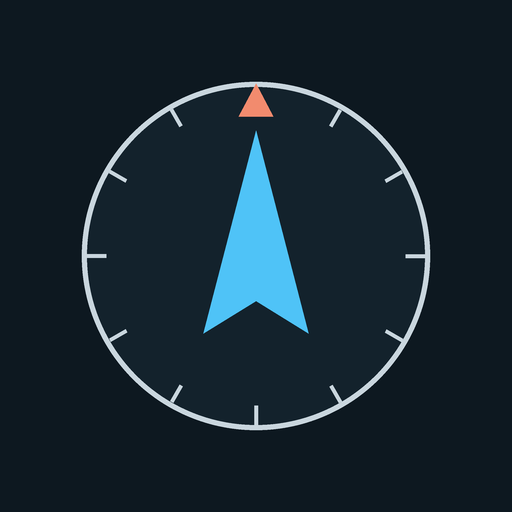
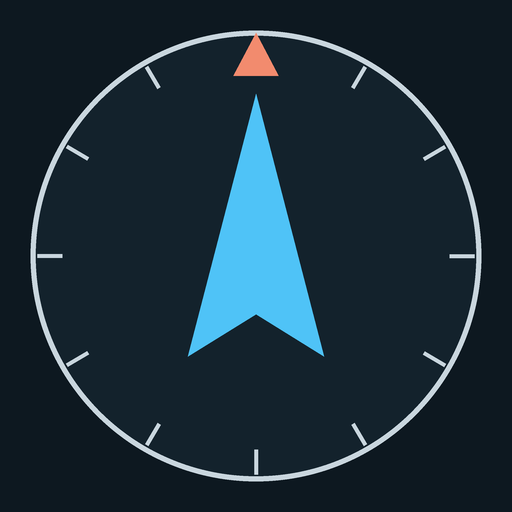
feat: установка как приложение — манифест, iOS-мета-теги, заставки, баннер установки
- манифест: имя «Компас», lang ru, id, orientation, отдельная maskable-иконка
- iOS: apple-mobile-web-app-capable, заголовок, строка статуса black-translucent,
  apple-touch-icon 180×180, заставки запуска для iPhone и iPad (вне офлайн-кэша)
- баннер установки: Android — кнопка «Установить» (beforeinstallprompt),
  iOS — подсказка «Поделиться → На экран „Домой“»; скрыт в установленном режиме
- scripts/generate-pwa-assets.py генерирует иконки и заставки

Claude-Session: https://claude.ai/code/session_01H9AEjJP9HTkZ9iTGTb5Xyv

diff --git a/index.html b/index.html
@@ -3,7 +3,49 @@
   <head>
     <meta charset="UTF-8" />
     <link rel="icon" type="image/svg+xml" href="/favicon.svg" />
-    <link rel="apple-touch-icon" href="/icon-192.png" />
+    <link rel="apple-touch-icon" href="/apple-touch-icon.png" />
+    <!-- Установка на главный экран: окно без интерфейса браузера -->
+    <meta name="mobile-web-app-capable" content="yes" />
+    <meta name="apple-mobile-web-app-capable" content="yes" />
+    <meta name="apple-mobile-web-app-title" content="Компас" />
+    <meta name="application-name" content="Компас" />
+    <!-- Контент заходит под строку статуса iOS; отступы под вырез — через safe-area в index.css -->
+    <meta name="apple-mobile-web-app-status-bar-style" content="black-translucent" />
+    <!-- Заставки iOS при запуске с главного экрана (генерирует scripts/generate-pwa-assets.py) -->
+    <link rel="apple-touch-startup-image" href="/splash/splash-750x1334.png" media="(device-width: 375px) and (device-height: 667px) and (-webkit-device-pixel-ratio: 2) and (orientation: portrait)" />
+    <link rel="apple-touch-startup-image" href="/splash/splash-1334x750.png" media="(device-width: 375px) and (device-height: 667px) and (-webkit-device-pixel-ratio: 2) and (orientation: landscape)" />
+    <link rel="apple-touch-startup-image" href="/splash/splash-828x1792.png" media="(device-width: 414px) and (device-height: 896px) and (-webkit-device-pixel-ratio: 2) and (orientation: portrait)" />
+    <link rel="apple-touch-startup-image" href="/splash/splash-1792x828.png" media="(device-width: 414px) and (device-height: 896px) and (-webkit-device-pixel-ratio: 2) and (orientation: landscape)" />
+    <link rel="apple-touch-startup-image" href="/splash/splash-1125x2436.png" media="(device-width: 375px) and (device-height: 812px) and (-webkit-device-pixel-ratio: 3) and (orientation: portrait)" />
+    <link rel="apple-touch-startup-image" href="/splash/splash-2436x1125.png" media="(device-width: 375px) and (device-height: 812px) and (-webkit-device-pixel-ratio: 3) and (orientation: landscape)" />
+    <link rel="apple-touch-startup-image" href="/splash/splash-1242x2688.png" media="(device-width: 414px) and (device-height: 896px) and (-webkit-device-pixel-ratio: 3) and (orientation: portrait)" />
+    <link rel="apple-touch-startup-image" href="/splash/splash-2688x1242.png" media="(device-width: 414px) and (device-height: 896px) and (-webkit-device-pixel-ratio: 3) and (orientation: landscape)" />
+    <link rel="apple-touch-startup-image" href="/splash/splash-1170x2532.png" media="(device-width: 390px) and (device-height: 844px) and (-webkit-device-pixel-ratio: 3) and (orientation: portrait)" />
+    <link rel="apple-touch-startup-image" href="/splash/splash-2532x1170.png" media="(device-width: 390px) and (device-height: 844px) and (-webkit-device-pixel-ratio: 3) and (orientation: landscape)" />
+    <link rel="apple-touch-startup-image" href="/splash/splash-1284x2778.png" media="(device-width: 428px) and (device-height: 926px) and (-webkit-device-pixel-ratio: 3) and (orientation: portrait)" />
+    <link rel="apple-touch-startup-image" href="/splash/splash-2778x1284.png" media="(device-width: 428px) and (device-height: 926px) and (-webkit-device-pixel-ratio: 3) and (orientation: landscape)" />
+    <link rel="apple-touch-startup-image" href="/splash/splash-1179x2556.png" media="(device-width: 393px) and (device-height: 852px) and (-webkit-device-pixel-ratio: 3) and (orientation: portrait)" />
+    <link rel="apple-touch-startup-image" href="/splash/splash-2556x1179.png" media="(device-width: 393px) and (device-height: 852px) and (-webkit-device-pixel-ratio: 3) and (orientation: landscape)" />
+    <link rel="apple-touch-startup-image" href="/splash/splash-1290x2796.png" media="(device-width: 430px) and (device-height: 932px) and (-webkit-device-pixel-ratio: 3) and (orientation: portrait)" />
+    <link rel="apple-touch-startup-image" href="/splash/splash-2796x1290.png" media="(device-width: 430px) and (device-height: 932px) and (-webkit-device-pixel-ratio: 3) and (orientation: landscape)" />
+    <link rel="apple-touch-startup-image" href="/splash/splash-1206x2622.png" media="(device-width: 402px) and (device-height: 874px) and (-webkit-device-pixel-ratio: 3) and (orientation: portrait)" />
+    <link rel="apple-touch-startup-image" href="/splash/splash-2622x1206.png" media="(device-width: 402px) and (device-height: 874px) and (-webkit-device-pixel-ratio: 3) and (orientation: landscape)" />
+    <link rel="apple-touch-startup-image" href="/splash/splash-1320x2868.png" media="(device-width: 440px) and (device-height: 956px) and (-webkit-device-pixel-ratio: 3) and (orientation: portrait)" />
+    <link rel="apple-touch-startup-image" href="/splash/splash-2868x1320.png" media="(device-width: 440px) and (device-height: 956px) and (-webkit-device-pixel-ratio: 3) and (orientation: landscape)" />
+    <link rel="apple-touch-startup-image" href="/splash/splash-1488x2266.png" media="(device-width: 744px) and (device-height: 1133px) and (-webkit-device-pixel-ratio: 2) and (orientation: portrait)" />
+    <link rel="apple-touch-startup-image" href="/splash/splash-2266x1488.png" media="(device-width: 744px) and (device-height: 1133px) and (-webkit-device-pixel-ratio: 2) and (orientation: landscape)" />
+    <link rel="apple-touch-startup-image" href="/splash/splash-1620x2160.png" media="(device-width: 810px) and (device-height: 1080px) and (-webkit-device-pixel-ratio: 2) and (orientation: portrait)" />
+    <link rel="apple-touch-startup-image" href="/splash/splash-2160x1620.png" media="(device-width: 810px) and (device-height: 1080px) and (-webkit-device-pixel-ratio: 2) and (orientation: landscape)" />
+    <link rel="apple-touch-startup-image" href="/splash/splash-1640x2360.png" media="(device-width: 820px) and (device-height: 1180px) and (-webkit-device-pixel-ratio: 2) and (orientation: portrait)" />
+    <link rel="apple-touch-startup-image" href="/splash/splash-2360x1640.png" media="(device-width: 820px) and (device-height: 1180px) and (-webkit-device-pixel-ratio: 2) and (orientation: landscape)" />
+    <link rel="apple-touch-startup-image" href="/splash/splash-1668x2388.png" media="(device-width: 834px) and (device-height: 1194px) and (-webkit-device-pixel-ratio: 2) and (orientation: portrait)" />
+    <link rel="apple-touch-startup-image" href="/splash/splash-2388x1668.png" media="(device-width: 834px) and (device-height: 1194px) and (-webkit-device-pixel-ratio: 2) and (orientation: landscape)" />
+    <link rel="apple-touch-startup-image" href="/splash/splash-1668x2420.png" media="(device-width: 834px) and (device-height: 1210px) and (-webkit-device-pixel-ratio: 2) and (orientation: portrait)" />
+    <link rel="apple-touch-startup-image" href="/splash/splash-2420x1668.png" media="(device-width: 834px) and (device-height: 1210px) and (-webkit-device-pixel-ratio: 2) and (orientation: landscape)" />
+    <link rel="apple-touch-startup-image" href="/splash/splash-2048x2732.png" media="(device-width: 1024px) and (device-height: 1366px) and (-webkit-device-pixel-ratio: 2) and (orientation: portrait)" />
+    <link rel="apple-touch-startup-image" href="/splash/splash-2732x2048.png" media="(device-width: 1024px) and (device-height: 1366px) and (-webkit-device-pixel-ratio: 2) and (orientation: landscape)" />
+    <link rel="apple-touch-startup-image" href="/splash/splash-2064x2752.png" media="(device-width: 1032px) and (device-height: 1376px) and (-webkit-device-pixel-ratio: 2) and (orientation: portrait)" />
+    <link rel="apple-touch-startup-image" href="/splash/splash-2752x2064.png" media="(device-width: 1032px) and (device-height: 1376px) and (-webkit-device-pixel-ratio: 2) and (orientation: landscape)" />
     <meta name="viewport" content="width=device-width, initial-scale=1.0, viewport-fit=cover" />
     <meta name="theme-color" content="#0d1820" />
     <meta name="description" content="Оффлайн GPS-навигатор: стрелка указывает на выбранную точку" />

diff --git a/src/hooks/useInstallPrompt.js b/src/hooks/useInstallPrompt.js
@@ -1,0 +1,84 @@
+import { useState, useEffect } from 'react';
+
+const DISMISS_KEY = 'compassInstallHintDismissed';
+
+// Приложение уже открыто с главного экрана (отдельным окном, без интерфейса браузера)
+const isStandaloneNow = () =>
+  (typeof window.matchMedia === 'function' && window.matchMedia('(display-mode: standalone)').matches) ||
+  window.navigator.standalone === true;
+
+// iPhone, iPod и iPad; iPadOS в режиме «как на компьютере» представляется Mac с сенсорным экраном
+const detectIOS = () =>
+  /iphone|ipad|ipod/i.test(navigator.userAgent) ||
+  (navigator.platform === 'MacIntel' && navigator.maxTouchPoints > 1);
+
+const readDismissed = () => {
+  try {
+    return localStorage.getItem(DISMISS_KEY) === '1';
+  } catch {
+    return false;
+  }
+};
+
+// Предложение установить приложение:
+// - Android/Chrome: системный диалог через событие beforeinstallprompt;
+// - iOS: такого события нет — показываем подсказку «Поделиться → На экран „Домой“».
+// mode: 'prompt' | 'ios' | null (null — уже установлено, скрыто пользователем или установка недоступна)
+const useInstallPrompt = () => {
+  const [deferredPrompt, setDeferredPrompt] = useState(null);
+  const [isInstalled, setIsInstalled] = useState(isStandaloneNow);
+  const [isDismissed, setIsDismissed] = useState(readDismissed);
+  const [isIOS] = useState(detectIOS);
+
+  useEffect(() => {
+    const handleBeforeInstall = (event) => {
+      event.preventDefault(); // не показывать мини-панель Chrome — предложим установку своей кнопкой
+      setDeferredPrompt(event);
+    };
+    const handleInstalled = () => {
+      setIsInstalled(true);
+      setDeferredPrompt(null);
+    };
+    const media = typeof window.matchMedia === 'function' ? window.matchMedia('(display-mode: standalone)') : null;
+    const handleDisplayMode = (event) => setIsInstalled(event.matches || window.navigator.standalone === true);
+
+    window.addEventListener('beforeinstallprompt', handleBeforeInstall);
+    window.addEventListener('appinstalled', handleInstalled);
+    media?.addEventListener?.('change', handleDisplayMode);
+    return () => {
+      window.removeEventListener('beforeinstallprompt', handleBeforeInstall);
+      window.removeEventListener('appinstalled', handleInstalled);
+      media?.removeEventListener?.('change', handleDisplayMode);
+    };
+  }, []);
+
+  const promptInstall = async () => {
+    if (!deferredPrompt) return;
+    deferredPrompt.prompt();
+    try {
+      await deferredPrompt.userChoice;
+    } finally {
+      // событие одноразовое: после диалога его нельзя показать снова
+      setDeferredPrompt(null);
+    }
+  };
+
+  const dismiss = () => {
+    setIsDismissed(true);
+    try {
+      localStorage.setItem(DISMISS_KEY, '1');
+    } catch {
+      // хранилище недоступно — подсказка скрыта до перезагрузки
+    }
+  };
+
+  let mode = null;
+  if (!isInstalled && !isDismissed) {
+    if (deferredPrompt) mode = 'prompt';
+    else if (isIOS) mode = 'ios';
+  }
+
+  return { mode, promptInstall, dismiss };
+};
+
+export default useInstallPrompt;

diff --git a/src/components/InstallBanner.jsx b/src/components/InstallBanner.jsx
@@ -1,0 +1,37 @@
+import useInstallPrompt from '../hooks/useInstallPrompt';
+
+// Значок «Поделиться» iOS: квадрат со стрелкой вверх
+const ShareIcon = () => (
+  <svg className="install__icon" viewBox="0 0 24 24" aria-hidden="true">
+    <path d="M12 3v12M8 7l4-4 4 4" fill="none" stroke="currentColor" strokeWidth="2" strokeLinecap="round" strokeLinejoin="round" />
+    <path d="M7 10H5v11h14V10h-2" fill="none" stroke="currentColor" strokeWidth="2" strokeLinejoin="round" />
+  </svg>
+);
+
+// Предложение установить приложение на главный экран, чтобы оно открывалось без интерфейса браузера
+export default function InstallBanner() {
+  const { mode, promptInstall, dismiss } = useInstallPrompt();
+  if (!mode) return null;
+
+  return (
+    <section className="panel install" aria-labelledby="install-title">
+      <h2 id="install-title" className="label">Установка</h2>
+      {mode === 'prompt' ? (
+        <>
+          <p className="install__text">Установите Компас: он будет открываться с главного экрана отдельным окном и работать без сети.</p>
+          <div className="btn-row">
+            <button type="button" className="btn" onClick={promptInstall}>Установить</button>
+            <button type="button" className="btn btn--secondary" onClick={dismiss}>Не сейчас</button>
+          </div>
+        </>
+      ) : (
+        <>
+          <p className="install__text">
+            Чтобы открывать Компас без браузера: нажмите «Поделиться» <ShareIcon /> и выберите «На экран „Домой“».
+          </p>
+          <button type="button" className="btn btn--secondary btn--block" onClick={dismiss}>Понятно</button>
+        </>
+      )}
+    </section>
+  );
+}

diff --git a/vite.config.js b/vite.config.js
@@ -18,28 +18,31 @@ export default defineConfig({
     react(),
     VitePWA({
       registerType: "prompt",
+      includeAssets: ["favicon.svg", "apple-touch-icon.png"],
       workbox: {
-        globPatterns: ["**/*.{js,css,html,ico,png,svg,webmanifest,woff2}"]
+        globPatterns: ["**/*.{js,css,html,ico,png,svg,webmanifest,woff2}"],
+        // Заставки iOS не нужны в офлайн-кэше: iOS забирает их сам при установке
+        globIgnores: ["splash/**"]
       },
       manifest: {
-        name: "Навигатор",
+        id: "/",
+        name: "Компас",
         short_name: "Компас",
-        description: "Оффлайн GPS навигатор",
+        description: "Офлайн-компас с GPS: стрелка указывает на выбранную точку",
+        lang: "ru",
+        dir: "ltr",
+        start_url: "/",
+        scope: "/",
+        display: "standalone",
+        display_override: ["standalone"],
+        orientation: "any",
         theme_color: "#0d1820",
         background_color: "#0d1820",
-        display: "standalone",
+        categories: ["navigation", "travel", "utilities"],
         icons: [
-          {
-            src: "/icon-192.png",
-            sizes: "192x192",
-            type: "image/png"
-          },
-          {
-            src: "/icon-512.png",
-            sizes: "512x512",
-            type: "image/png",
-            purpose: "any maskable"
-          }
+          { src: "/icon-192.png", sizes: "192x192", type: "image/png", purpose: "any" },
+          { src: "/icon-512.png", sizes: "512x512", type: "image/png", purpose: "any" },
+          { src: "/icon-maskable-512.png", sizes: "512x512", type: "image/png", purpose: "maskable" }
         ]
       }
     })

diff --git a/src/index.css b/src/index.css
@@ -127,6 +127,24 @@ input {
   overflow-x: hidden;
 }
 
+.install {
+  width: 100%;
+  max-width: 480px;
+  margin: 0 auto;
+}
+
+.install__text {
+  margin: 0;
+}
+
+.install__icon {
+  display: inline-block;
+  width: 18px;
+  height: 18px;
+  vertical-align: -3px;
+  color: var(--accent);
+}
+
 .layout {
   display: grid;
   grid-template-columns: minmax(0, 1fr);
@@ -153,7 +171,8 @@ input {
 
 /* Планшет в портрете и большие телефоны: одна колонка шире, циферблат крупнее */
 @media (min-width: 600px) {
-  .layout {
+  .layout,
+  .install {
     max-width: 560px;
   }
 }
@@ -163,6 +182,10 @@ input {
   .app {
     padding-left: max(var(--s-6), env(safe-area-inset-left));
     padding-right: max(var(--s-6), env(safe-area-inset-right));
+  }
+
+  .install {
+    max-width: 1200px;
   }
 
   .layout {

diff --git a/src/components/Compass.jsx b/src/components/Compass.jsx
@@ -11,6 +11,7 @@ import CompassDial from './CompassDial';
 import LocationList from './LocationList';
 import CoordsPanel from './CoordsPanel';
 import EventFeed from './EventFeed';
+import InstallBanner from './InstallBanner';
 
 export default function Compass() {
   const { coords, error: geoError, isLoading: isGeoLoading } = useGeolocation();
@@ -54,6 +55,8 @@ export default function Compass() {
         isSensorOn={isPermissionGranted}
         sensorError={orientError}
       />
+
+      <InstallBanner />
 
       <div className="layout">
         <div className="layout__target">

diff --git a/scripts/generate-pwa-assets.py b/scripts/generate-pwa-assets.py
@@ -1,0 +1,79 @@
+#!/usr/bin/env python3
+"""Генерирует PWA-ресурсы в public/: иконки и картинки запуска iOS (apple-touch-startup-image).
+
+Запуск из корня репозитория: python3 scripts/generate-pwa-assets.py  (нужен Pillow).
+Печатает теги <link rel="apple-touch-startup-image"> для index.html.
+"""
+import math
+import os
+from PIL import Image, ImageDraw
+
+BG = "#0d1820"
+
+# (CSS-ширина, CSS-высота, devicePixelRatio) в портретной ориентации
+DEVICES = [
+    (375, 667, 2),   # iPhone SE, 8
+    (414, 896, 2),   # iPhone XR, 11
+    (375, 812, 3),   # iPhone X, XS, 11 Pro, 12/13 mini
+    (414, 896, 3),   # iPhone XS Max, 11 Pro Max
+    (390, 844, 3),   # iPhone 12, 13, 14
+    (428, 926, 3),   # iPhone 12/13 Pro Max, 14 Plus
+    (393, 852, 3),   # iPhone 14 Pro, 15, 16
+    (430, 932, 3),   # iPhone 14 Pro Max, 15/16 Plus
+    (402, 874, 3),   # iPhone 16 Pro
+    (440, 956, 3),   # iPhone 16 Pro Max
+    (744, 1133, 2),  # iPad mini 6
+    (810, 1080, 2),  # iPad 10.2
+    (820, 1180, 2),  # iPad 10.9, Air
+    (834, 1194, 2),  # iPad Pro 11
+    (834, 1210, 2),  # iPad Pro 11 (M4)
+    (1024, 1366, 2), # iPad Pro 12.9
+    (1032, 1376, 2), # iPad Pro 13 (M4)
+]
+
+
+def draw_dial(size, radius_frac, background=BG):
+    s = size * 4  # рисуем с запасом и уменьшаем — сглаженные края
+    im = Image.new("RGBA", (s, s), background)
+    d = ImageDraw.Draw(im)
+    c = s / 2
+    r = s * radius_frac
+    d.ellipse([c - r, c - r, c + r, c + r], fill="#13222c", outline="#c9d6de", width=max(2, s // 96))
+    for deg in range(0, 360, 30):
+        t = math.radians(deg)
+        r1, r2 = r * 0.86, r * 0.97
+        d.line([(c + r1 * math.sin(t), c - r1 * math.cos(t)), (c + r2 * math.sin(t), c - r2 * math.cos(t))],
+               fill="#c9d6de", width=max(2, s // 128))
+    a = r * 0.72
+    d.polygon([(c, c - a), (c - a * 0.42, c + a * 0.62), (c, c + a * 0.36), (c + a * 0.42, c + a * 0.62)], fill="#4fc3f7")
+    d.polygon([(c, c - r * 0.99), (c - r * 0.1, c - r * 0.8), (c + r * 0.1, c - r * 0.8)], fill="#f28b6e")
+    return im.resize((size, size), Image.LANCZOS)
+
+
+def main():
+    os.makedirs("public/splash", exist_ok=True)
+    draw_dial(192, 0.44).save("public/icon-192.png", optimize=True)
+    draw_dial(512, 0.44).save("public/icon-512.png", optimize=True)
+    # maskable: Android обрезает по маске — всё важное внутри безопасной зоны (круг радиусом 40%)
+    draw_dial(512, 0.34).save("public/icon-maskable-512.png", optimize=True)
+    # iOS: без прозрачности, углы скругляет система
+    draw_dial(180, 0.40).convert("RGB").save("public/apple-touch-icon.png", optimize=True)
+
+    tags = []
+    for w, h, dpr in DEVICES:
+        for orientation, (pw, ph) in (("portrait", (w * dpr, h * dpr)), ("landscape", (h * dpr, w * dpr))):
+            name = f"splash/splash-{pw}x{ph}.png"
+            icon = draw_dial(round(min(pw, ph) * 0.28), 0.48)
+            im = Image.new("RGB", (pw, ph), BG)
+            im.paste(icon, ((pw - icon.width) // 2, (ph - icon.height) // 2), icon)
+            # палитра вместо полноцвета: файл в разы меньше, заставка однотонная
+            im.convert("P", palette=Image.ADAPTIVE, colors=64).save(f"public/{name}", optimize=True)
+            tags.append(
+                f'<link rel="apple-touch-startup-image" href="/{name}" media="(device-width: {w}px) '
+                f'and (device-height: {h}px) and (-webkit-device-pixel-ratio: {dpr}) and (orientation: {orientation})" />'
+            )
+    print("\n".join(tags))
+
+
+if __name__ == "__main__":
+    main()

diff --git a/problems.md b/problems.md
@@ -193,3 +193,11 @@
 # Этап 7: редизайн
 
 Выполнен по `DESIGN.md` (тактический HUD), подробности и проверки — в разделе 8 `DESIGN.md`.
+
+# Этап 8: установка как приложение (PWA без интерфейса браузера)
+
+- Манифест: имя «Компас», `lang: ru`, `id`, `orientation: any`, отдельная maskable-иконка (раньше одна иконка была `any maskable` и обрезалась бы по маске).
+- iOS: `apple-mobile-web-app-capable`, заголовок, строка статуса `black-translucent` (отступы под вырез уже были), `apple-touch-icon` 180×180, 34 заставки запуска (портрет и альбом для актуальных iPhone и iPad); заставки исключены из офлайн-кэша.
+- Баннер установки: на Android — кнопка «Установить» через `beforeinstallprompt`, на iOS — подсказка «Поделиться → На экран „Домой“»; в установленном приложении не показывается, «Не сейчас»/«Понятно» запоминается.
+- Проверено в Chromium: Chrome считает приложение устанавливаемым (0 ошибок), сценарии баннера на Android/iOS/в установленном режиме. На реальных устройствах не проверено.
+

diff --git a/README.md b/README.md
@@ -10,6 +10,15 @@
 - установка на телефон как PWA, работа без сети
 - уведомление о новой версии вместо автоматической перезагрузки
 
+## Установка на устройство (без интерфейса браузера)
+
+Компас — PWA: после установки открывается с главного экрана отдельным окном и работает офлайн.
+
+- **iPhone / iPad:** в Safari нажмите «Поделиться» → «На экран „Домой“». Приложение подскажет это само при первом открытии.
+- **Android:** кнопка «Установить» в приложении или меню Chrome ⋮ → «Установить приложение».
+
+Иконки и заставки iOS генерирует `scripts/generate-pwa-assets.py` (нужен Pillow); он же печатает теги `apple-touch-startup-image` для `index.html`.
+
 ## Запуск
 
 ```bash
